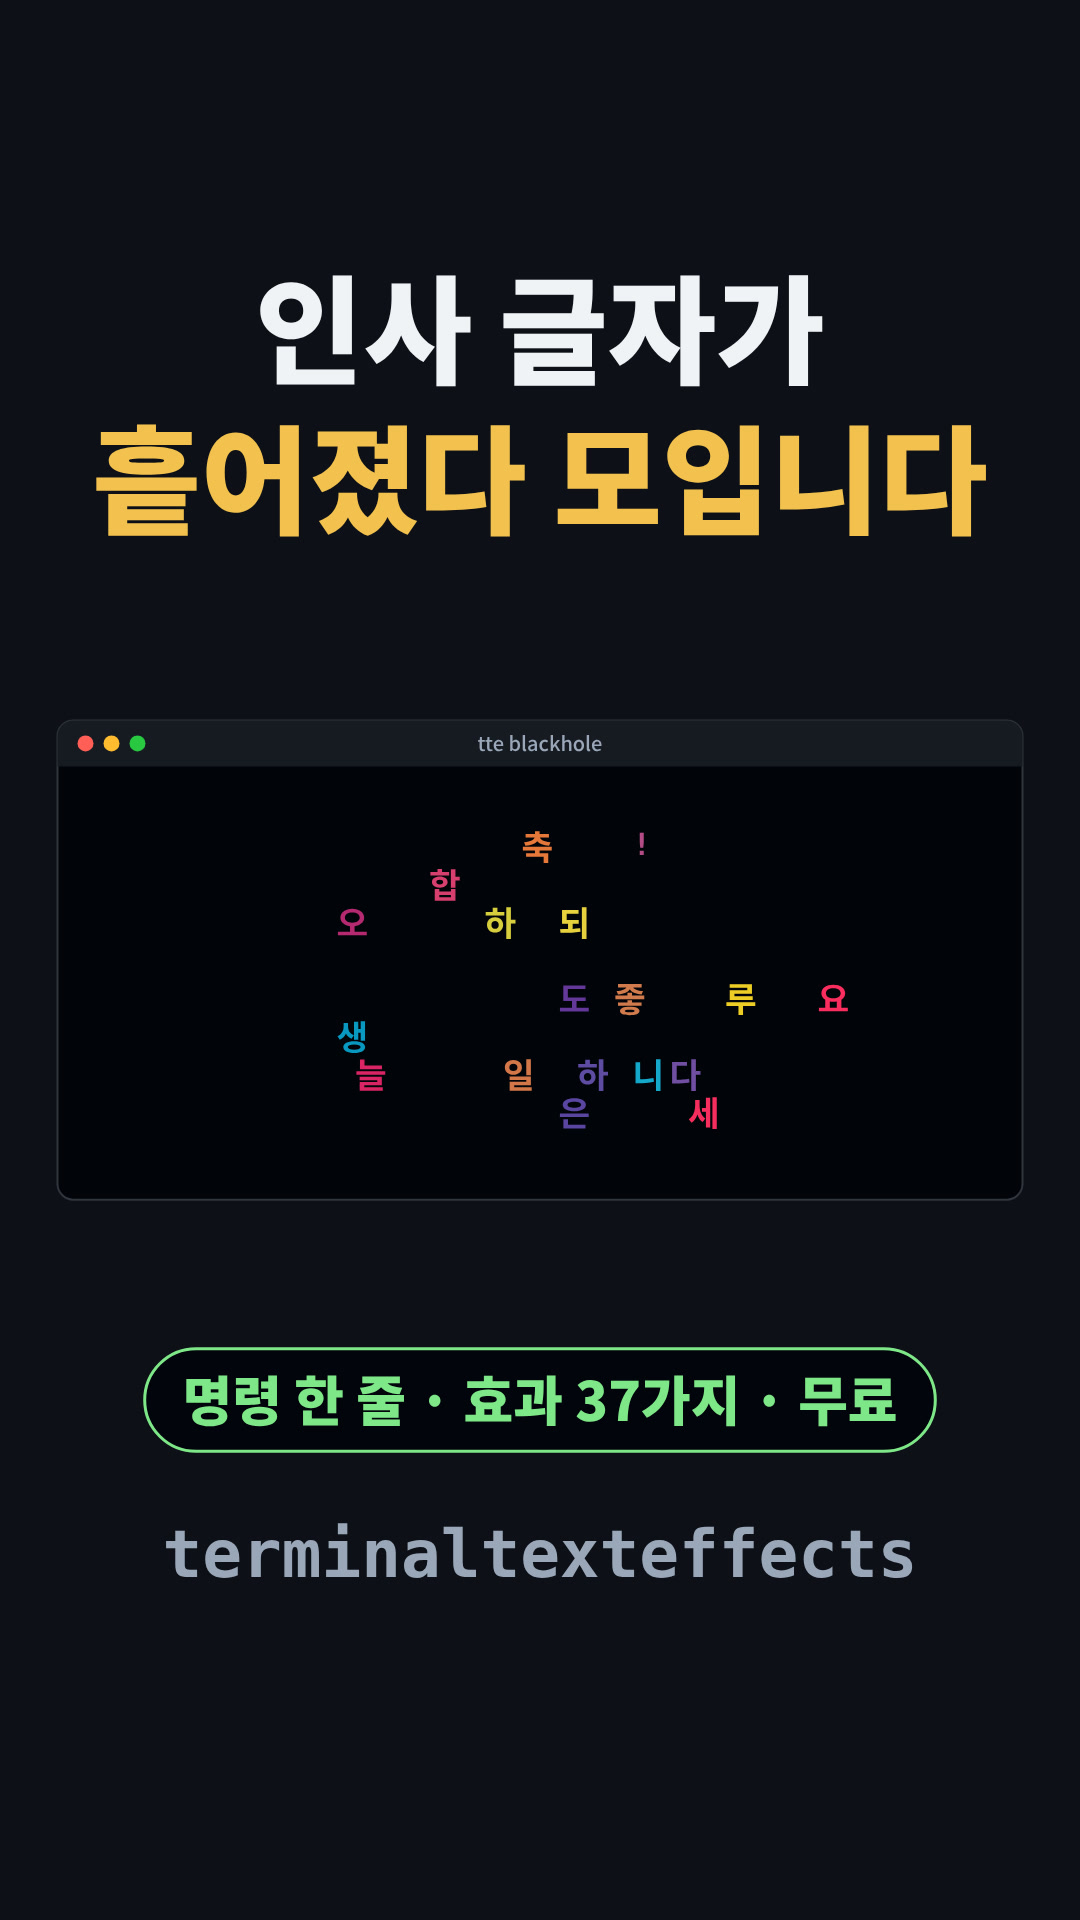
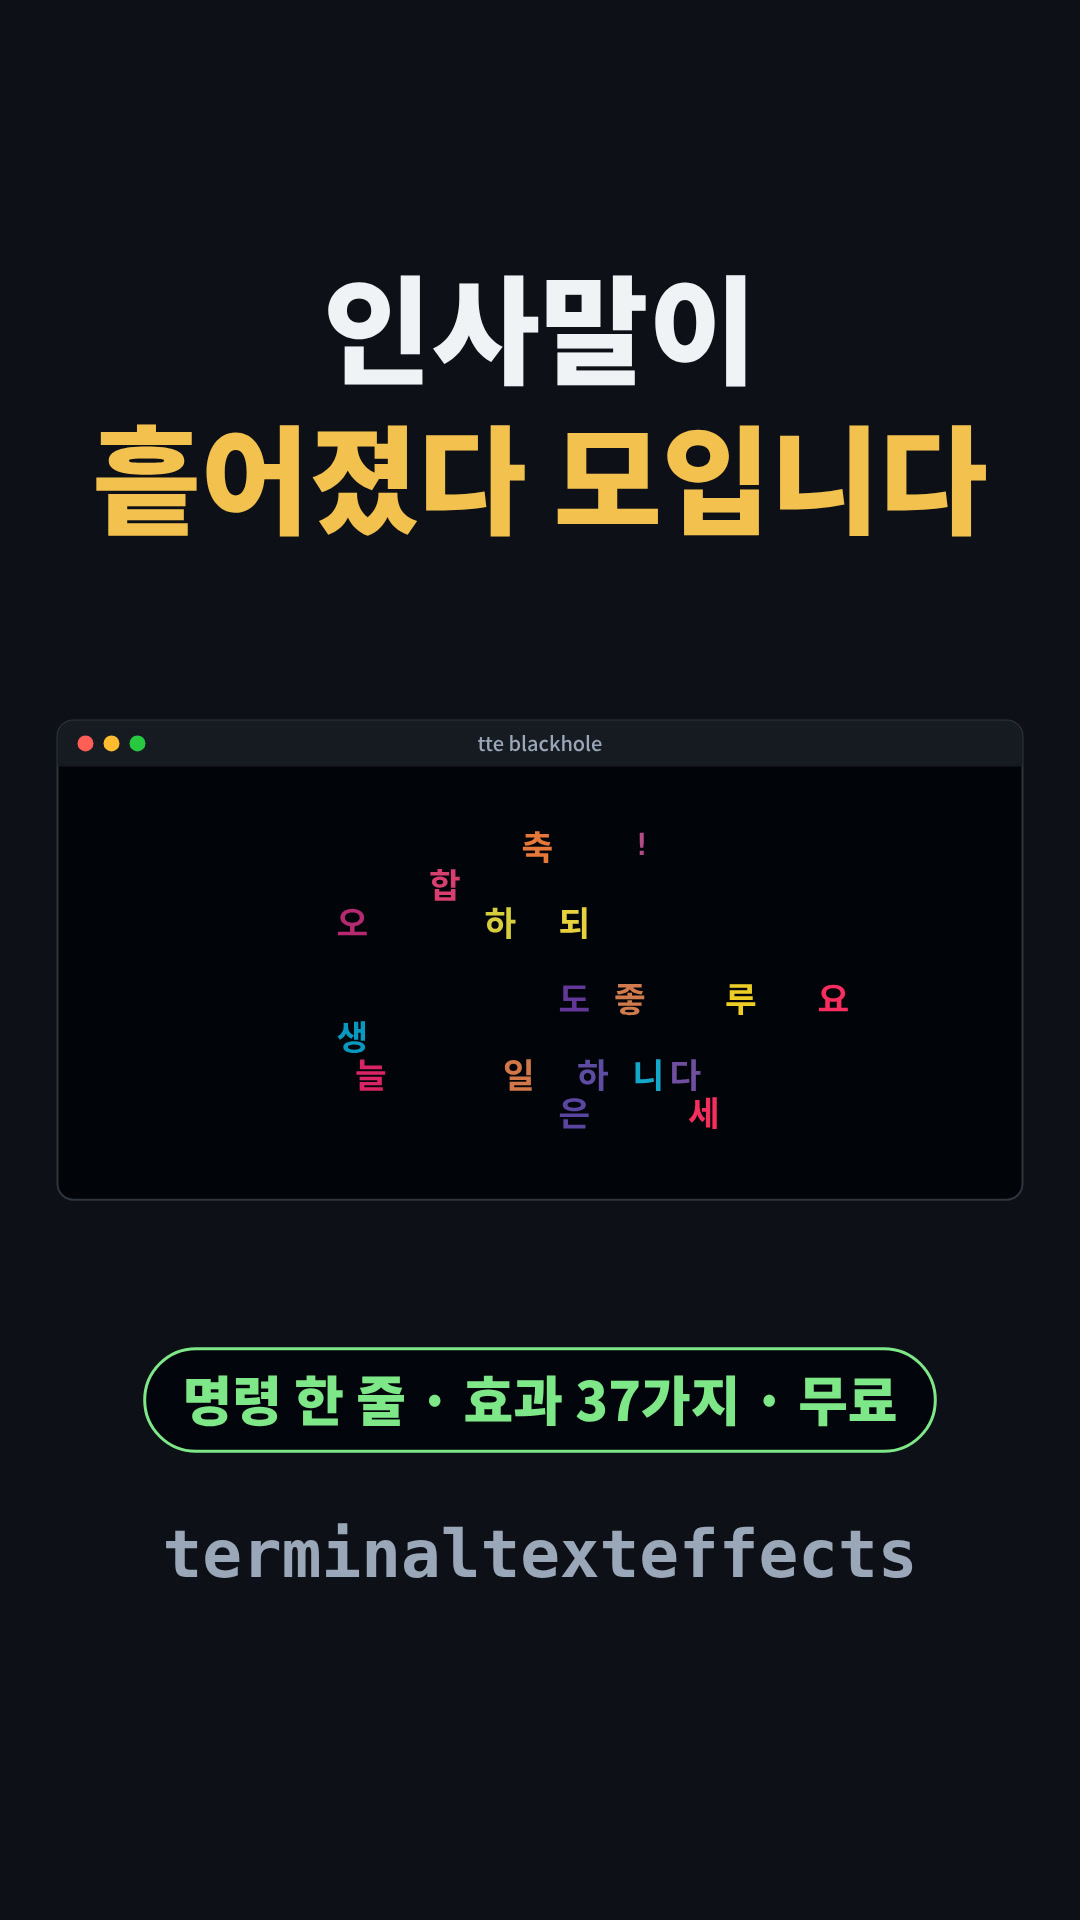
Day 16 숏폼 썸네일 문구: '인사 글자가' → '인사말이' (운영자 요청)
Claude-Session: https://claude.ai/code/session_019E7jeFae5sMsRWf6dEsz17

Changed region(s): [[0.2444, 0.125, 0.7639, 0.2188]]

diff --git a/2026-11-12-terminaltexteffects/demo/make_images.html b/2026-11-12-terminaltexteffects/demo/make_images.html
@@ -39,7 +39,7 @@ const IMGS = {
   },
   thumbShorts() { // 숏폼 썸네일 (세로 1080×1920, 글자는 가운데 안전 영역에)
     setup(1080, 1920);
-    text('인사 글자가', 540, 330, 118, INK, 900); text('흩어졌다 모입니다', 540, 480, 118, GOLD, 900);
+    text('인사말이', 540, 330, 118, INK, 900); text('흩어졌다 모입니다', 540, 480, 118, GOLD, 900);
     fxTerm('blackhole_ko', 7.3, 540, 960, 18.5, 1, 'tte blackhole');
     pill('명령 한 줄 · 효과 37가지 · 무료', 540, 1400, 54, GREEN, 1);
     text('terminaltexteffects', 540, 1560, 66, SUB, 800, 'center', 1, MONO);
